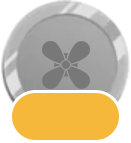
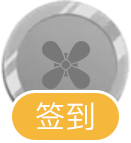
feature_sign_in_签到成功界面

Changed region(s): [[0.2748, 0.6993, 0.7328, 0.9231]]

diff --git a/src/views/popup/signin.vue b/src/views/popup/signin.vue
@@ -12,9 +12,13 @@
   .thisweek.t_c.pt_5.ml_2.mr_2.c_9
     f7-row(no-gap)
       f7-col(width="25" v-for=" (x, i) in weekTitle ")
-        .hlh_25.bgc_f7(:class=" {'week_title_lst cli_a': i === weekTitle.length -1 } ") {{ x }}
+        template(v-if=" i < weekTitle.length -1 ")
+          .hlh_25.bgc_f7(:class=" {'week_title_lst cli_a': i === weekTitle.length -1 } " ) {{ x }}
+        template(v-else)
+          f7-button.hlh_25.bgc_f7.week_title_lst.cli_a(panel-open=".signmonth")
+
         .h_5
-        .lh_44.h_55.w_44.mg_0a.c_f.ft_b(v-if=" i < 7 " :class=" weekCls[i] " ) {{ i + 1 }}
+        .lh_44.h_55.w_44.mg_0a.c_f.ft_b(v-if=" i < 7 " :class=" weekCls[i] " @click="signin") {{ i + 1 }}
 
   .more-info.h_25.mt_20
   
@@ -71,6 +75,12 @@ export default {
   methods: {
     __initSigninPopup () {
       this.init = true
+    },
+    signin () {
+      this.$f7.popup.close('#signin')
+      setTimeout(() => {
+        this.$f7.popup.open('#signinsuccess')
+      }, 1000)
     }
   },
 }

diff --git a/src/views/popup/signinsuccess.vue b/src/views/popup/signinsuccess.vue
@@ -1,0 +1,42 @@
+<template lang="pug">
+.signinsuccess.p_r.bgc_f.r_15.pd_20
+  f7-link.p_a.p_r_5.p_t_5(icon-f7="close" color="gray" icon-size="30px" popup-close="#signinsuccess")
+  .t_c
+    .w_100.h_70.inlb
+    .c_0.ft_b.mt_10 &nbsp;&nbsp;签到成功！
+
+  f7-list
+    f7-list-item(v-for=" (x, i) in data " :key="i" :title="x")
+      f7-button(slot="after" popup-close="#signinsuccess" @click=" __go('/promo/', {props: {tabid: '#gift'}} ) ") 查看礼品箱
+
+
+</template>
+
+<script>
+import config from '@/config'
+export default {
+  mixins: [config],
+  components: {
+  },
+  name: 'signinsuccess',
+  props: [],
+  data () {
+    return {
+      data: ['2元礼金已发放', '刮刮卡10张已发放'],
+    }
+  },
+  created () {
+  },
+  methods: {
+  }
+}
+</script>
+
+<style lang="stylus">
+@import '~src/css/var.stylus'
+// 建议不添加scoped， 所有样式最多嵌套2层
+.signinsuccess
+  .w_100
+    bg("~src/assets/signin/13@2x.png")
+    
+</style>

diff --git a/src/App.vue b/src/App.vue
@@ -11,8 +11,8 @@ f7-app(:params=" f7Params ")
     f7-view
 
   // Right Panel with "reveal" effect
-  //- f7-panel(right reveal)
-    f7-view
+  f7-panel.signmonth.z_99999.wp_100(right cover)
+    f7-view(url="/signmonth")
 
   // Main view
   //- f7-view(url="/" :main="true" :push-state="true")
@@ -37,6 +37,12 @@ f7-app(:params=" f7Params ")
   f7-popup#signin.r_5.dialog-popup-auto-center.o_v.bgc_o.full_width(@popup:open=" __setCall({fn: '__initSigninPopup'}) ")
     signin
 
+  //- global 签到成功
+  f7-popup#signinsuccess.r_5.dialog-popup-auto-center.o_v.bgc_o.full_w80
+    signinsuccess
+
+
+
 </template>
 
 <script>
@@ -47,10 +53,12 @@ import oi from '@/components/oi'
 import Socket from './socket'
 import g from '@/gm/g'
 import signin from '@/views/popup/signin'
+import signinsuccess from '@/views/popup/signinsuccess'
 export default {
   mixins: [config, oi],
   components: {
-    signin
+    signin,
+    signinsuccess,
   },
   name: 'app',
   data () {
